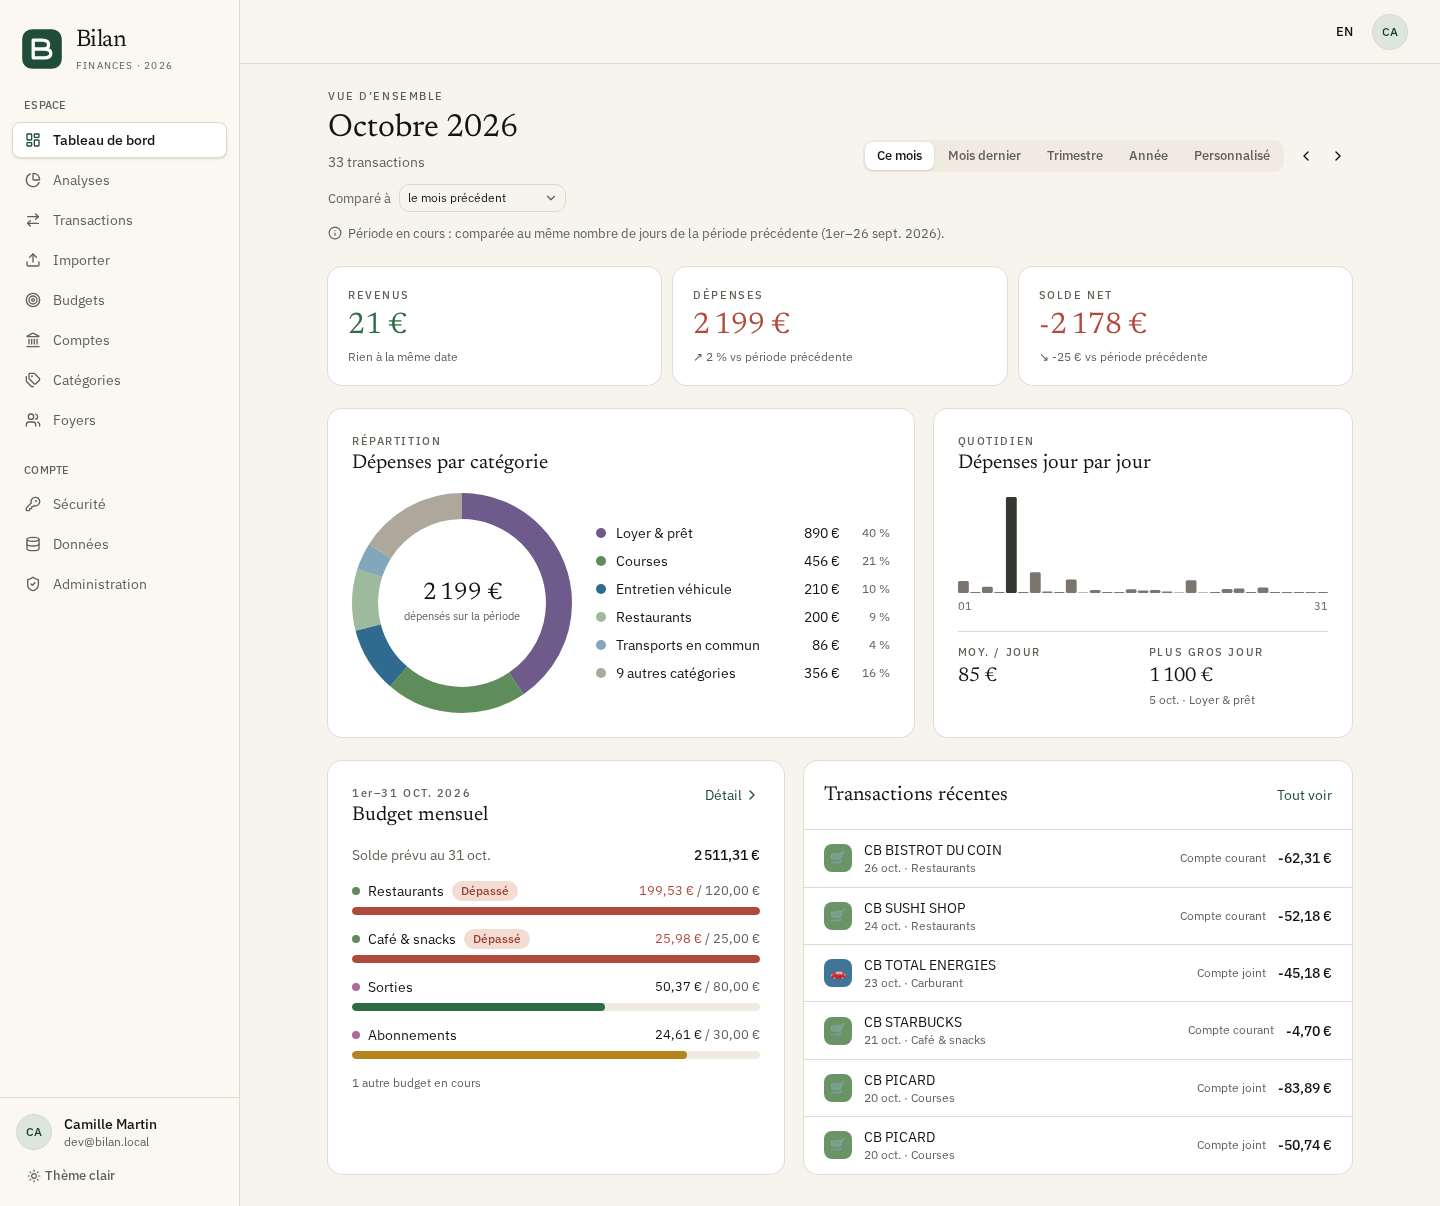
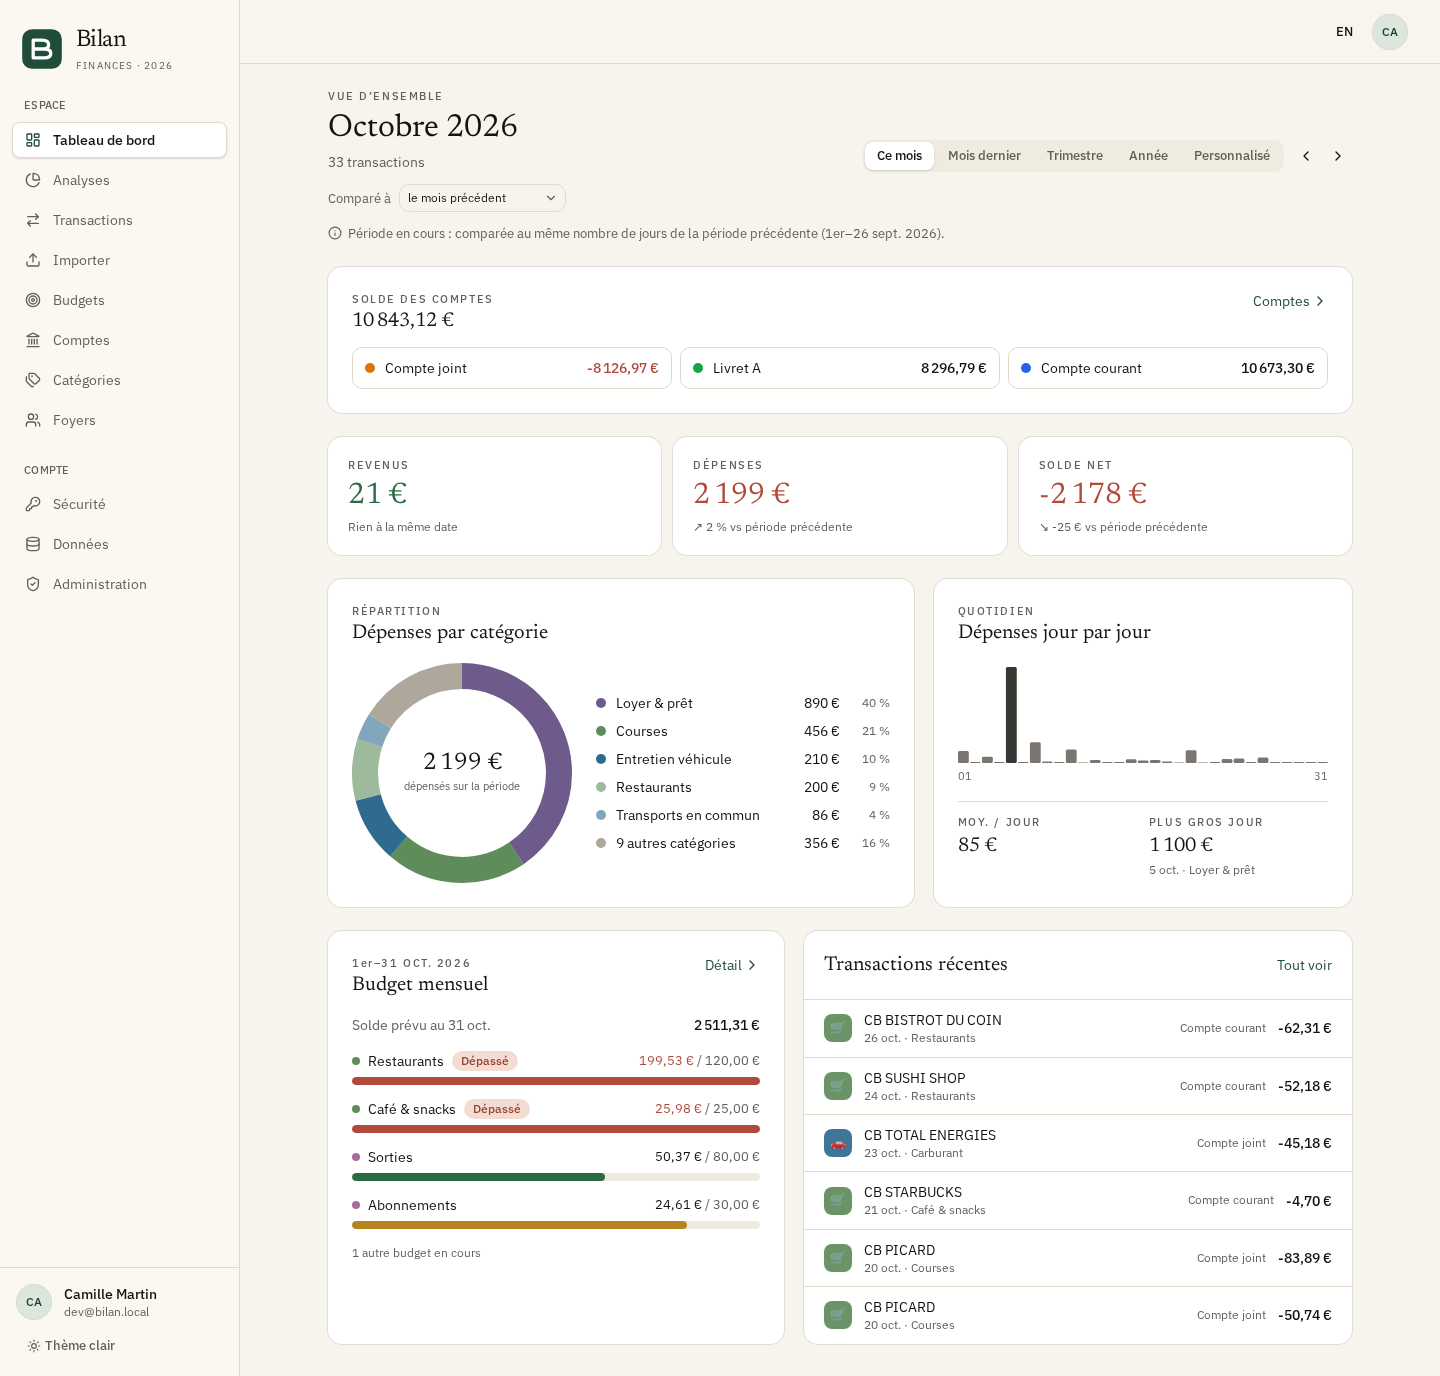
feat: show account balances on the dashboard

diff --git a/src/components/dashboard/accounts-overview.tsx b/src/components/dashboard/accounts-overview.tsx
@@ -1,0 +1,73 @@
+import { getTranslations } from "next-intl/server";
+import Link from "next/link";
+import { ChevronRight } from "lucide-react";
+import { Card } from "@/components/ui/card";
+import { overline } from "@/components/transactions/bits";
+import { formatMoney } from "@/lib/format";
+import type { VisibleAccount } from "@/server/services/accounts";
+
+const negativeTone = (n: number) => (n < 0 ? { color: "var(--expense)" } : undefined);
+
+// Current balances, independent of the dashboard period (#349).
+export async function AccountsOverview({
+  accounts,
+  locale,
+}: {
+  accounts: VisibleAccount[];
+  locale: string;
+}) {
+  if (accounts.length === 0) return null;
+  const [t, tAccounts] = await Promise.all([
+    getTranslations("dashboard.accounts"),
+    getTranslations("accounts"),
+  ]);
+  const total = Math.round(accounts.reduce((sum, a) => sum + a.balance, 0) * 100) / 100;
+
+  return (
+    <Card className="gap-3 p-4.5 md:p-6" data-slot="dashboard-accounts">
+      <div className="flex items-start justify-between gap-3">
+        <div className="min-w-0">
+          <div className={overline}>{t("overline")}</div>
+          <div className="font-display text-xl tabular-nums" style={negativeTone(total)}>
+            {formatMoney(total, locale)}
+          </div>
+        </div>
+        <Link
+          href={`/${locale}/accounts`}
+          className="text-primary inline-flex shrink-0 items-center gap-0.5 text-sm hover:underline"
+        >
+          {t("seeAll")}
+          <ChevronRight className="size-4" />
+        </Link>
+      </div>
+      <div className="grid grid-cols-1 gap-2 sm:grid-cols-2 lg:grid-cols-3">
+        {accounts.map((a) => (
+          <div
+            key={a.id}
+            data-slot="dashboard-account"
+            className="flex items-center gap-2.5 rounded-lg border px-3 py-2.5"
+          >
+            <span
+              className="size-2.5 shrink-0 rounded-full"
+              style={{ background: a.color ?? "var(--muted-foreground)" }}
+            />
+            <div className="min-w-0 flex-1">
+              <div className="truncate text-sm">{a.name}</div>
+              {a.ownerName && (
+                <div className="text-muted-foreground truncate text-[11.5px]">
+                  {tAccounts("sharedBy", { name: a.ownerName })}
+                </div>
+              )}
+            </div>
+            <span
+              className="shrink-0 text-sm font-medium tabular-nums"
+              style={negativeTone(a.balance)}
+            >
+              {formatMoney(a.balance, locale)}
+            </span>
+          </div>
+        ))}
+      </div>
+    </Card>
+  );
+}

diff --git a/src/app/[locale]/(authenticated)/dashboard/page.tsx b/src/app/[locale]/(authenticated)/dashboard/page.tsx
@@ -4,6 +4,7 @@ import { listForUser, listForeignCategories } from "@/server/services/categories
 import { flattenCategories } from "@/components/transactions/category-tree";
 import { getDashboard } from "@/server/services/dashboard";
 import { getCurrentBudget } from "@/server/services/budgets";
+import { listVisibleForUser } from "@/server/services/accounts";
 import { getOnboardingState } from "@/server/services/onboarding";
 import { getAppName } from "@/server/services/settings/app-settings";
 import { parsePeriodParams, clampPeriodToNow, parseBaseline, comparisonFor } from "@/lib/period";
@@ -45,7 +46,7 @@ export default async function DashboardPage({
 
   const period = clampPeriodToNow(parsePeriodParams({ from: sp.from, to: sp.to }));
   const comparison = comparisonFor(period, parseBaseline(sp.vs, period));
-  const [data, categories, budget] = await Promise.all([
+  const [data, categories, budget, accounts] = await Promise.all([
     getDashboard(user.id, period, comparison),
     // Display only: shared accounts carry their owner's categories too.
     Promise.all([listForUser(user.id), listForeignCategories(user.id)]).then(([own, foreign]) => [
@@ -53,6 +54,7 @@ export default async function DashboardPage({
       ...flattenCategories(foreign),
     ]),
     getCurrentBudget(user.id),
+    listVisibleForUser(user.id),
   ]);
 
   return (
@@ -62,6 +64,7 @@ export default async function DashboardPage({
       comparison={comparison}
       categories={categories}
       budget={budget}
+      accounts={accounts}
       locale={locale}
     />
   );

diff --git a/src/components/dashboard/dashboard-view.tsx b/src/components/dashboard/dashboard-view.tsx
@@ -18,6 +18,8 @@ import { DEFAULT_CATEGORY_COLOR } from "@/lib/category-appearance";
 import { BaselineSelect } from "./baseline-select";
 import { ComparisonNote } from "./comparison-note";
 import { BudgetSnapshot, type CurrentBudget } from "./budget-snapshot";
+import { AccountsOverview } from "./accounts-overview";
+import type { VisibleAccount } from "@/server/services/accounts";
 
 const OTHERS_COLOR = "var(--ink-4)";
 const DONUT_SLICES = 6;
@@ -34,6 +36,7 @@ export async function DashboardView({
   comparison,
   categories,
   budget,
+  accounts,
   locale,
 }: {
   data: DashboardData;
@@ -41,6 +44,7 @@ export async function DashboardView({
   comparison: Comparison;
   categories: FlatCategory[];
   budget: CurrentBudget;
+  accounts: VisibleAccount[];
   locale: string;
 }) {
   const t = await getTranslations("dashboard");
@@ -168,6 +172,8 @@ export async function DashboardView({
         {period.month && <BaselineSelect value={comparison.baseline} />}
         <ComparisonNote comparison={comparison} locale={locale} />
       </div>
+
+      <AccountsOverview accounts={accounts} locale={locale} />
 
       {/* KPI row */}
       <div className="grid grid-cols-2 gap-2.5 md:grid-cols-3 md:gap-3">

diff --git a/tests/e2e/dashboard.spec.ts b/tests/e2e/dashboard.spec.ts
@@ -22,6 +22,17 @@ test.describe("dashboard", () => {
     });
   }
 
+  test("lists the account balances with a link to the accounts page (#349)", async ({ page }) => {
+    await page.goto("/fr/dashboard");
+    const card = page.locator('[data-slot="dashboard-accounts"]');
+    await expect(card).toContainText("Solde des comptes");
+    await expect(
+      card.locator('[data-slot="dashboard-account"]', { hasText: "E2E Courant" }),
+    ).toContainText("€");
+    await card.getByRole("link", { name: /comptes/i }).click();
+    await expect(page).toHaveURL(/\/fr\/accounts$/);
+  });
+
   const kpiRects = async (page: Page) => {
     const cards = page.locator('[data-slot="kpi-card"]');
     await expect(cards).toHaveCount(3);

diff --git a/docs/user-guide.fr.md b/docs/user-guide.fr.md
@@ -558,6 +558,7 @@ Astuce : les virements entre vos comptes comptent comme entrées et dépenses ta
 
 ![Tableau de bord](images/fr/dashboard.png)
 
+- **Solde des comptes** : le solde actuel de chaque compte non archivé et leur total, quelle que soit la période choisie. **Comptes** ouvre la page des comptes.
 - **Revenus**, **Dépenses** et **Solde net**, chacun avec son évolution par rapport à la comparaison.
 - **Dépenses par catégorie** : un anneau avec les six plus grosses catégories, le reste regroupé.
 - **Dépenses jour par jour** (périodes jusqu’à 45 jours) ou **Dépenses par mois** (périodes plus longues), avec la moyenne et le plus gros jour ou mois.

diff --git a/docs/user-guide.md b/docs/user-guide.md
@@ -558,6 +558,7 @@ Tip: transfers between your accounts count as income and expenses until you link
 
 ![Dashboard](images/en/dashboard.png)
 
+- **Account balances**: the current balance of each non-archived account and their total, whatever the selected period. **Accounts** opens the accounts page.
 - **Income**, **Expenses** and **Net balance**, each with its change against the comparison.
 - **Spending by category**: a donut with the six largest categories, the rest grouped.
 - **Day-by-day spending** (periods up to 45 days) or **Monthly spending** (longer periods), with the average and the biggest day or month.
